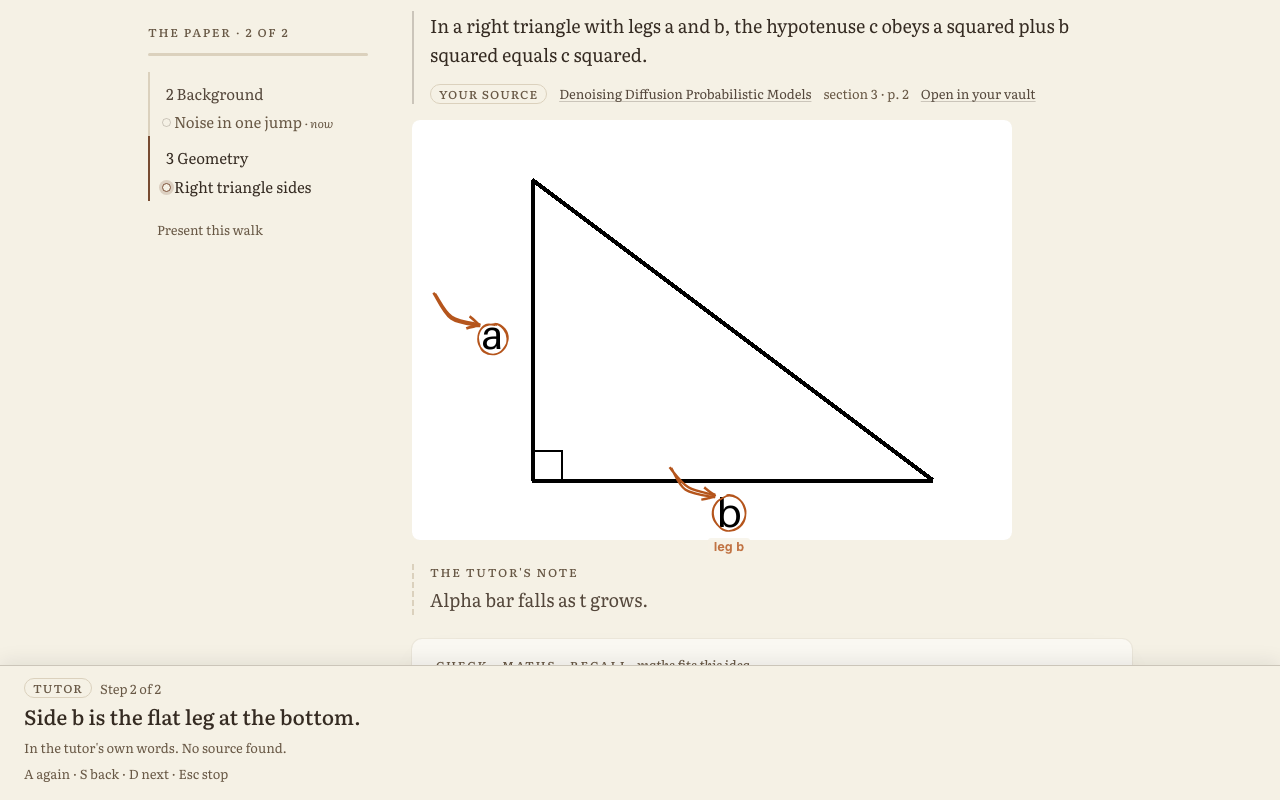
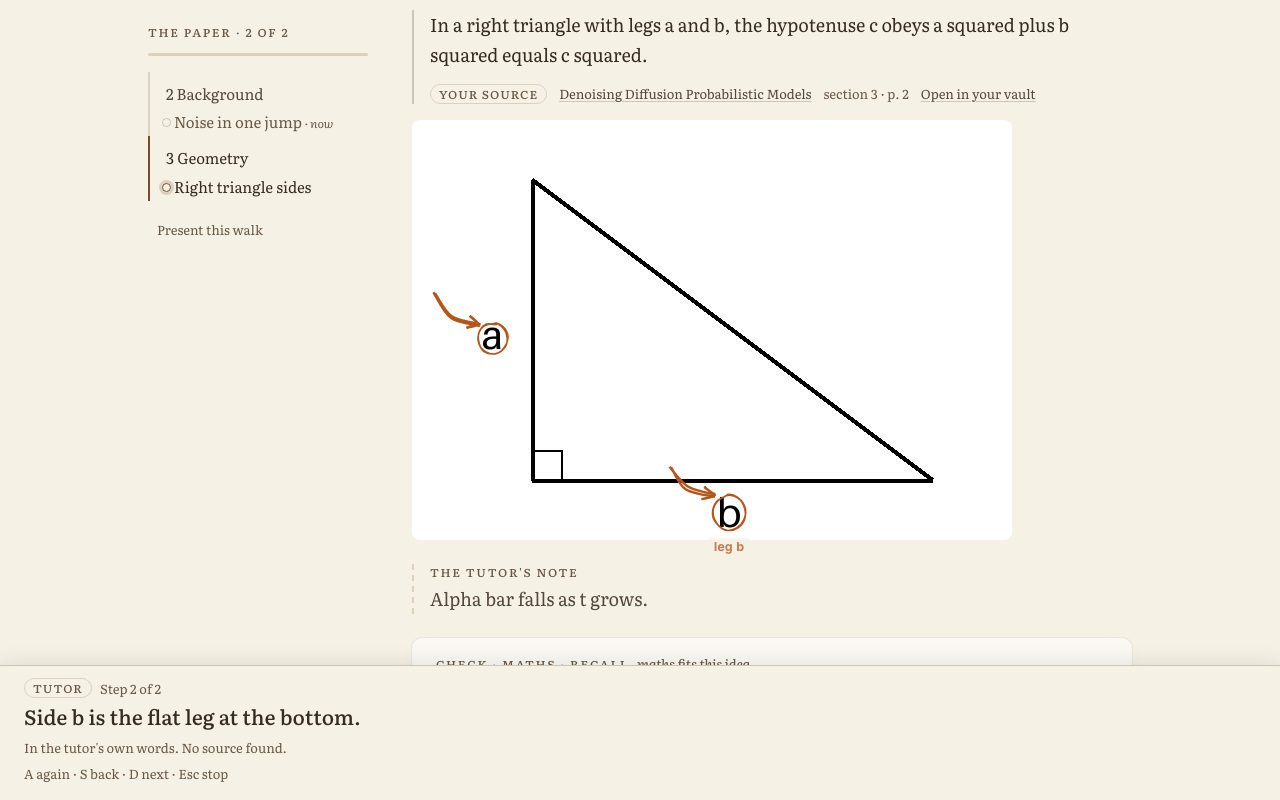
Check the video seek and the cue quote in Chromium and WebKit

diff --git a/tools/guide_look.py b/tools/guide_look.py
@@ -8,7 +8,10 @@ one browser at a time, closed at the end). Each check prints PASS or FAIL; the r
 1. "I don't get alpha bar" on the DDPM step: the circle lies on the alpha bar of the formula, and stays on it after a scroll and
    after the window changes size. A, S and D move the steps. The time from Send to the first mark is measured.
 2. "Explain a and b" on the triangle step: the vision call (faked) finds the labels once, and the pointer marks land on them.
-Screens: `guide-ddpm-<browser>.png` and `guide-triangle-<browser>.png`. The board voice is off (`abhyasaGuideQuiet`)."""
+3. The triangle idea has an explainer video (fossick's `read_yt` is faked, and a fake player stands in for youtube-nocookie, so
+   no call leaves the Mac). "What does the video say about a and b": the board seeks the embed to the start of the cue that
+   holds the quote, and the strip quotes that cue word for word with its `yt_link`. The concept page shows the same video.
+Screens: `guide-ddpm-<browser>.png`, `guide-triangle-<browser>.png`, `guide-video-<browser>.png` and `guide-video-concept-<browser>.png`. The board voice is off (`abhyasaGuideQuiet`)."""
 import argparse, json, os, re, socket, sys, tempfile, threading, time
 from pathlib import Path
 
@@ -60,9 +63,27 @@ def triangle(path):
     path.parent.mkdir(parents=True, exist_ok=True); im.save(path)
     return boxes
 
+VID = 'abc123def45'
+CUES = [dict(start=0.0, end=12.5, text='Here is a right triangle.'), dict(start=12.5, end=19.0, text='The two short sides are the legs, a and b.'),
+        dict(start=19.0, end=26.0, text='The long side is the hypotenuse.')]
+VIDEO_Q = 'the legs, a and b'   # in the cue at 12.5 s; the Fake gives a later time, 15 s, and the board must seek to 12.5 s
+
+def read_yt(url, force=False, cues=False, **kw):
+    "fossick's `read_yt`, faked: no network."
+    v = dict(title='Right triangles', channel='Maths Room', description='', duration=26, upload_date='20260101', source=' '.join(c['text'] for c in CUES))
+    return {**v, 'cues': CUES} if cues else v
+
+# The fake player: it takes the commands of the YouTube API and tells the page which time it was asked to seek to.
+PLAYER = '''<!doctype html><body style="margin:0;background:#222;color:#eee;font:16px sans-serif;display:grid;place-items:center;height:100vh">
+<div id="t">Fake player</div><script>addEventListener('message', e => { let m; try { m = JSON.parse(e.data); } catch (x) { return; }
+if (m.func === 'seekTo') { document.getElementById('t').textContent = 'Seek to ' + m.args[0] + ' s'; parent.postMessage({fakePlayer: 'seek', t: m.args[0]}, '*'); } });</script>'''
+
 def board(p, sp):
     "The Fake tutor: a board for the page in the prompt, from its anchors."
     L = lambda *os: '\n'.join(json.dumps(o) for o in os)
+    if 'What does the video say' in p:
+        return L(dict(op='v', n=1, sure=0.9, need='none'), dict(op='step', say='The video names the two short sides.'),
+                 dict(op='video_at', t=15, quote=VIDEO_Q, w=0), dict(op='box', at='video', w=2))
     if 'figure (figure)' in p:
         return L(dict(op='v', n=1, sure=0.9, need='none'),
                  dict(op='step', say='Side a is the upright leg of the triangle.'), dict(op='point', at=dict(a='figure', label='a'), w=1),
@@ -92,6 +113,10 @@ def seed():
     jid = TestClient(app).post('/walk/new', data=dict(ref=d['doc_id'])).headers['hx-redirect'].split('/')[-1]
     s = lr.journey(jid).steps[0]
     lr.walk_step(jid, 0, read={**s['read'], 'text': PASSAGE})   # the passage with the formula, as an arXiv HTML source gives it
+    import fossick.core, abhyasa.sources
+    from abhyasa.guide import file_video
+    fossick.core.read_yt, abhyasa.sources.public_url = read_yt, lambda u: u   # no network
+    file_video(lr, VID, lr.journey(jid).steps[1]['slug'])
     return app, jid
 
 def serve(app):
@@ -190,6 +215,40 @@ def tri(page, base, jid, name, out):
     page.keyboard.press('Escape')
     return last
 
+def video(page, base, jid, name, out):
+    page.set_viewport_size(dict(width=1280, height=900))
+    page.route('https://www.youtube-nocookie.com/**', lambda r: r.fulfill(status=200, content_type='text/html', body=PLAYER))
+    page.goto(f'{base}/w/{jid}/1')
+    page.evaluate("window.__seeks = []; addEventListener('message', e => { if (e.data && e.data.fakePlayer === 'seek') __seeks.push(e.data.t); })")
+    src = page.get_attribute('#guide-video iframe', 'src') or ''
+    check(f'{name}: the step embeds the video from youtube-nocookie, with no autoplay',
+          src.startswith(f'https://www.youtube-nocookie.com/embed/{VID}?') and 'enablejsapi=1' in src and 'autoplay' not in src, src)
+    page.frame_locator('#guide-video iframe').locator('#t').wait_for()   # the fake player is ready for commands
+    last = ask(page, 'What does the video say about a and b')
+    page.wait_for_function('window.__seeks.length > 0', timeout=5000)
+    seeks = page.evaluate('window.__seeks')
+    check(f'{name}: the video seeks to the start of the right cue', seeks[-1] == 12.5, f'seeks {seeks}')
+    q = page.evaluate("(() => { const p = [...document.querySelectorAll('#guide-strip .board-quote')].find(x => x.querySelector('a[href*=\"youtube.com/watch\"]')); return p && [p.querySelector('q').textContent, p.querySelector('a').href, p.querySelector('.pill').textContent]; })()")
+    want = f'https://www.youtube.com/watch?v={VID}&t=12s'
+    check(f'{name}: the board quotes that cue word for word, with its link', q and q[0] == VIDEO_Q and VIDEO_Q in CUES[1]['text'] and q[1] == want and q[2] == 'video', str(q))
+    end = page.text_content('#guide-strip .board-end') or ''
+    check(f'{name}: the end line names the video as the source', 'Maths Room · Right triangles' in end, end)
+    page.screenshot(path=str(out/f'guide-video-{name}.png'))
+    page.keyboard.press('Escape')
+    slug = page.get_attribute('#guide-video', 'data-concept')
+    page.goto(f'{base}/c/{slug}')
+    t = page.text_content('#guide-video-slot') or ''
+    check(f'{name}: the concept page shows the video and a quiet transcript',
+          page.locator('#guide-video iframe').count() == 1 and 'Maths Room · Right triangles' in t and page.locator('#guide-video details:not([open])').count() == 1)
+    page.click('#guide-video summary'); page.wait_for_timeout(200)
+    page.evaluate("window.__seeks = []; addEventListener('message', e => { if (e.data && e.data.fakePlayer === 'seek') __seeks.push(e.data.t); })")
+    page.wait_for_timeout(300)
+    page.click('#guide-video a[data-t="19.0"]'); page.wait_for_function('window.__seeks.length > 0', timeout=5000)
+    check(f'{name}: a time in the transcript seeks the video', page.evaluate('window.__seeks')[-1] == 19, str(page.evaluate('window.__seeks')))
+    page.locator('#guide-video-slot').scroll_into_view_if_needed()
+    page.screenshot(path=str(out/f'guide-video-concept-{name}.png'))
+    return last
+
 def main():
     ap = argparse.ArgumentParser()
     ap.add_argument('--out', default=str(ROOT/'design'/'screens'))
@@ -209,6 +268,7 @@ def main():
                     page.on('pageerror', lambda e: check(f'{name}: no page error', False, str(e)))
                     times[name] = ddpm(page, base, jid, name, out)
                     tri(page, base, jid, name, out)
+                    video(page, base, jid, name, out)
                 finally: b.close()
     finally: srv.should_exit = True
     n = sum('You find the text labels' in sp for _, sp in FAKE.calls)

diff --git a/docs/superpowers/plans/2026-10-30-screen-guide-p1.md b/docs/superpowers/plans/2026-10-30-screen-guide-p1.md
@@ -113,23 +113,24 @@
 - [ ] **Step 2–4:** run, implement, run.
 - [ ] **Step 5: Commit** `Open the guide with Hyper+E or the Explain button`.
 
-### Task 6: A YouTube explainer on a concept (left as a plan task)
+### Task 6: A YouTube explainer on a concept
 
-**Status (30 Oct 2026):** not built. fossick 0.1.23 gives `search_yt` and `read_yt`, and `read_yt` gives the transcript, but
-`_parse_vtt` removes the times. The board needs the time of each line (`video_at` seeks to it and links `&t=…s`). The owner's
-rule is to write no YouTube or transcript parser in abhyasa (dependency audit, finding 11). So the first step is upstream.
+**Status (30 Oct 2026):** built on `v0014-yt`, with fossick 0.1.24 (`read_yt(url, cues=True)` and `yt_link`). abhyasa has no
+transcript parser.
 
-What phase 1 already has: `video_at` in the board language, with its check (`cue_at`: the quote must be word for word in the
-cue at `t`, or the one before or after it); the capture reads `#guide-video[data-vid]`; `board.js` seeks a
-youtube-nocookie iframe with `postMessage` and links the time.
-
-**Steps when fossick has the cues:**
-- [ ] fossick: `read_yt(url, cues=True)` returns `cues: [(t, text)]` as well as `source` (cached by id, as now).
-- [ ] abhyasa: `find_explainer(name)` with `fossick.search_yt`; file the transcript with `Vault.youtube`, linked in the
-  concept's provenance; keep `cues` in the document meta.
-- [ ] guide block: `concept_more` shows the video (`youtube-nocookie.com/embed/<id>?enablejsapi=1`) as `#guide-video`; the
-  ask route adds `ctx.video.cues` from the vault.
-- [ ] Tests with fakes for `search_yt` and `read_yt`: the cues reach the prompt; `video_at` with words from the cue passes.
+- [x] fossick: `read_yt(url, cues=True)` gives `cues: [{start, end, text}]` in seconds, cached by id. `yt_link(id, s)`.
+- [x] Engine (`nbs/21_guide.ipynb`, "The explainer video"): `video_id` (by `yt_link`), `find_explainer` (`search_yt`, the query
+  through `guard`), `file_video` (`Vault.youtube`, then the cues from fossick's cache into the document meta with `set_meta`; the
+  link passes `public_url`, so `allow_private=False`), `set_video`, `concept_video`, `video_of` and `video_source`. A concept
+  keeps one video in its provenance as `src='video'`.
+- [x] `cue_quote`: the board seeks to the start of the cue that holds the quote, and quotes it as the transcript says it, with
+  `yt_link` to that time. The transcript is a source labelled *video* with the channel and title, so a step quote from it
+  passes the word-for-word check, and the end line names it.
+- [x] Gather agent: the tool `find_video(idea)` (`research.explainer_video`). The concept page: Find a video, paste a link,
+  Remove the video. The walk step shows the video through the `step_needs` hook. The embed is youtube-nocookie with
+  `enablejsapi=1` and no autoplay; the transcript is closed until you open it, and each time in it seeks the embed.
+- [x] The ask route takes only the video id from the page. The cues come from the vault.
+- [x] Tests with fakes for `search_yt` and `read_yt`. `guide_look` checks the seek time and the quote in Chromium and WebKit.
 
 ### Task 7: The browser check and the release checks
 
